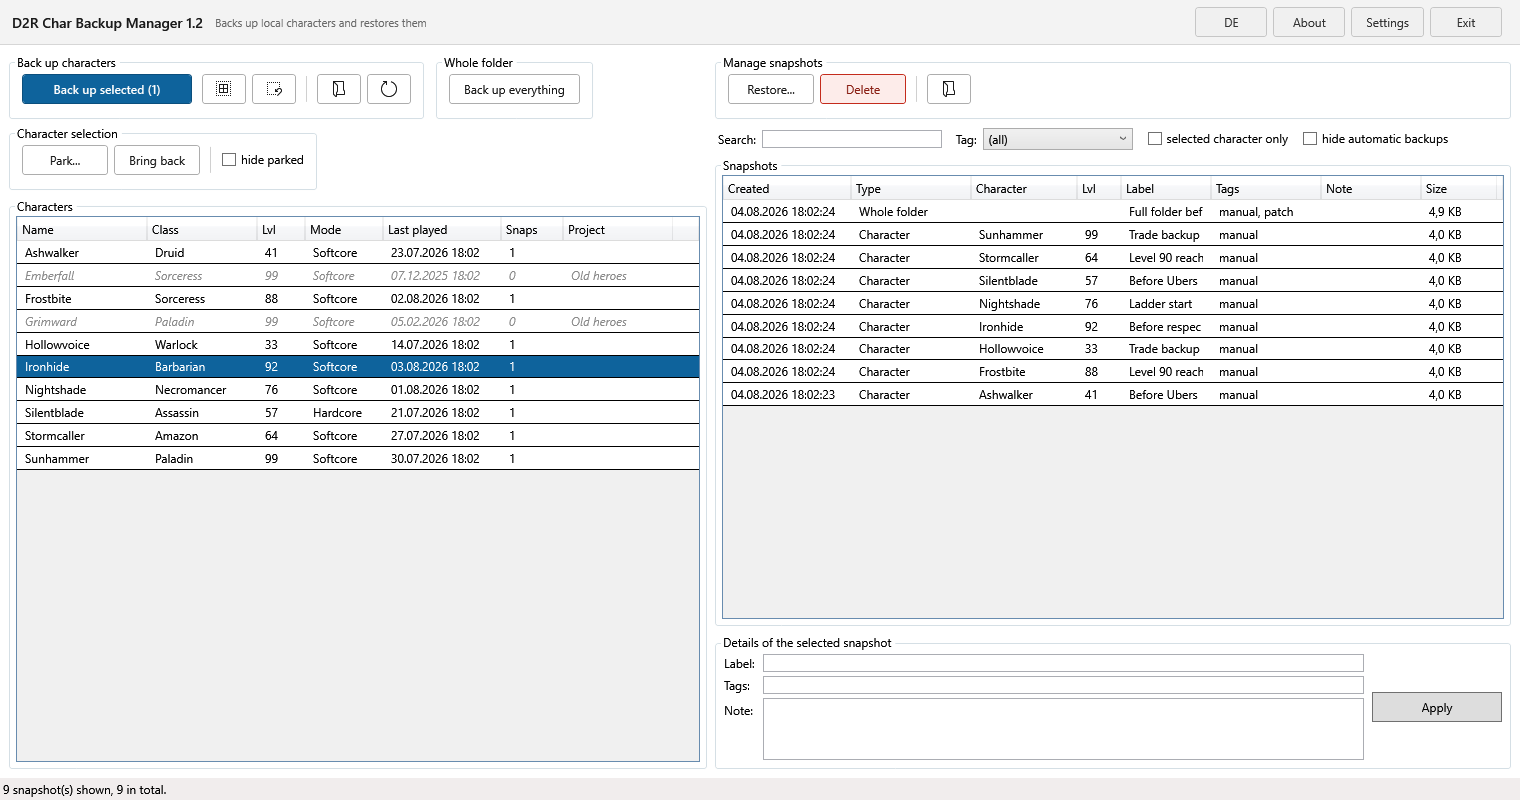
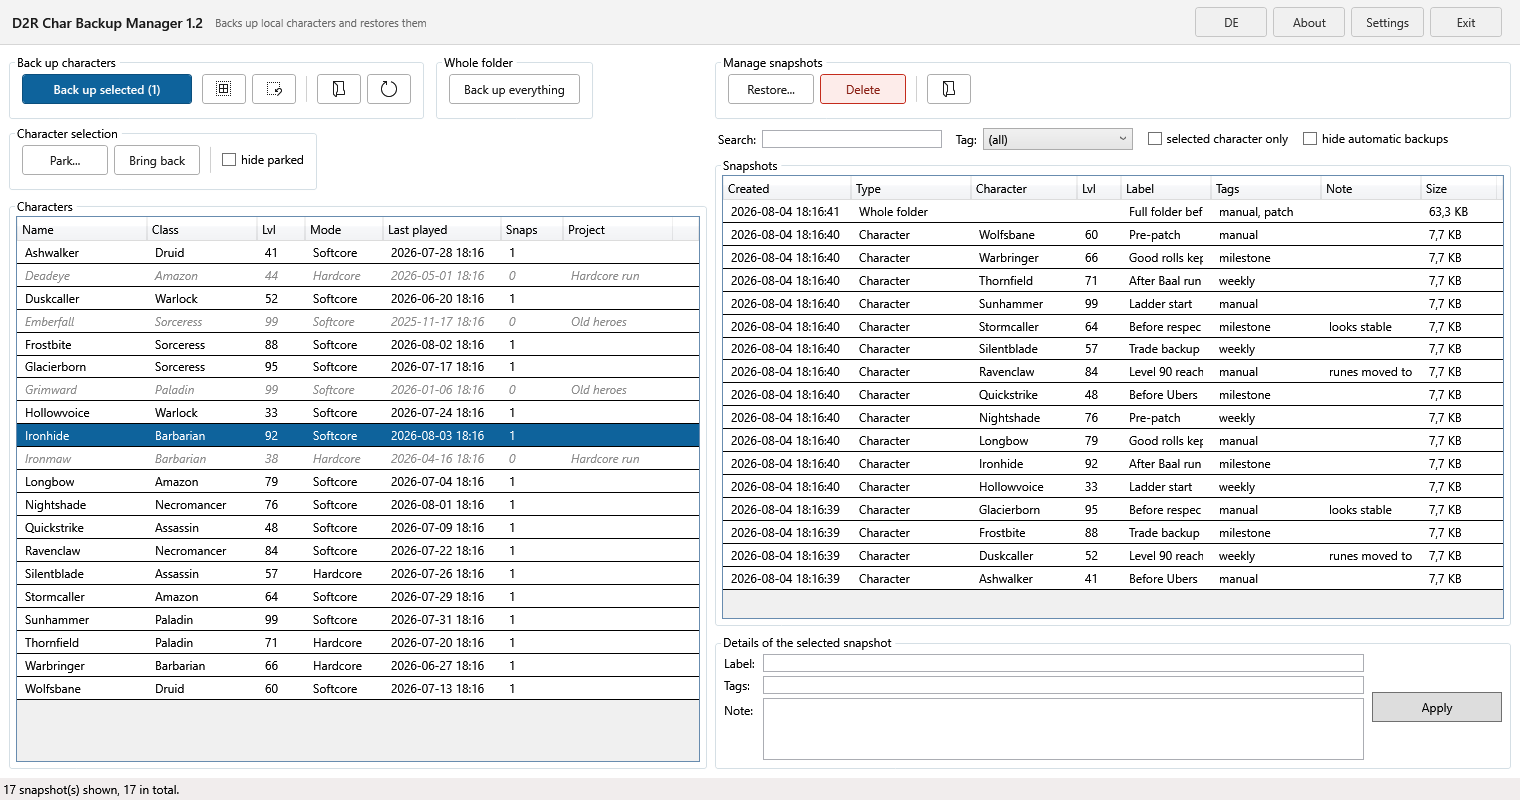
Nicer screenshots, dates follow the interface language, translation check
The screenshots looked half empty: ten rows in a list that holds twenty, and a
dialog that was mostly white space. They are regenerated from sixteen invented
characters plus four parked ones, so both lists are actually full, and the
lonely dialog is replaced by a crop of the character list - which is where
parking is visible in the first place.

While looking at them: the English interface still printed German dates.
Get-DateFormat now returns the format per language, ISO for English, and the
seven hard-coded format strings are gone. Sorting never used the formatted
text and is unaffected.

Test-Sandbox.ps1 gained a check that every string reaching the interface has
an entry in $script:TextsEn. Verified by removing one on purpose: the run
fails and names the string. 92 checks now.

diff --git a/README.md b/README.md
@@ -1,4 +1,4 @@
-# D2R Char Backup Manager
+# D2R Char Backup Manager
 
 A desktop tool for backing up, organising and restoring local *Diablo II:
 Resurrected* characters. PowerShell + WPF, no installation, no server, no
@@ -80,11 +80,11 @@ subfolder is invisible to the game. Parking uses exactly that: the character's f
 set is moved to `_Projekte\<project>\` inside the save folder. Nothing is deleted,
 nothing is rewritten.
 
-![Park dialog](screenshots/park-dialog.png)
-
 Parked characters stay visible inside the program — greyed out and italic, with
 their project in the last column — so you never lose track of what you put away.
 Bringing them back is the same move in reverse.
+
+![Parked characters in the list](screenshots/parked-characters.png)
 
 **A backup of every character is taken before parking it, and this cannot be
 switched off.** A backup is a copy; a parked character is the original in a
@@ -117,7 +117,7 @@ different place. Delete the project folder and it is gone.
 powershell.exe -NoProfile -ExecutionPolicy Bypass -Sta -File "Test-Sandbox.ps1"
 ```
 
-89 checks covering header parsing, backing up, restoring, renaming, the folder
+92 checks covering header parsing, backing up, restoring, renaming, the folder
 layout, stash behaviour, safety copies, deleting, parking and bringing back. They
 run against a throwaway sandbox under `%TEMP%` and never touch a real save folder.
 Green under Windows PowerShell 5.1 **and** PowerShell 7.4.

diff --git a/ENTWICKLUNG.md b/ENTWICKLUNG.md
@@ -93,7 +93,7 @@ unangetastet, zu jedem der Pflicht-Snapshot im Backup, `_INFO.txt` geschrieben.
 Bei einem Charakter wanderten auch `.ctlo`/`.keyo` mit — richtig so, das sind seine
 Tastenbelegungen, und `Get-CharacterFiles` greift über den Basisnamen.
 
-`Test-Sandbox.ps1` deckt 89 Prüfungen ab (Header-Parsing, Sichern, Wiederherstellen,
+`Test-Sandbox.ps1` deckt 92 Prüfungen ab (Header-Parsing, Sichern, Wiederherstellen,
 Umbenennen, Ordner-Ablage, `_INFO.txt`, Stash-Verhalten, Sicherheitskopie, Löschen,
 Index-Neuladen, Parken, Zurückholen, Projektnamen, Namenskollisionen) und läuft grün
 unter Windows PowerShell 5.1 **und** PowerShell 7.4.
@@ -135,7 +135,7 @@ Sonst wartet das Skript auf einen Klick.
 | `ENTWICKLUNG.md` | diese Datei, nur für die Pflege |
 | `CHANGELOG.md` | Änderungen je Version, englisch |
 | `screenshots\` | Bilder fürs README, aus **erfundenen** Charakteren erzeugt |
-| `Test-Sandbox.ps1` | 89 Prüfungen gegen eine Wegwerf-Sandbox |
+| `Test-Sandbox.ps1` | 92 Prüfungen gegen eine Wegwerf-Sandbox |
 | `_versionen\<Version>\` | Quellstand je Version zum schnellen Zurückgehen |
 | `Build-Deploy.ps1` | baut `_deploy\D2R-Char-Backup-Manager-<Version>.zip` |
 | `Render-Ansicht.ps1` | Fenster als PNG rendern |

diff --git a/CHANGELOG.md b/CHANGELOG.md
@@ -20,6 +20,12 @@ in the window title and on the right of the status bar.
 - `LICENSE` (MIT) is now part of the distributed package.
 - Column widths of the snapshot list trimmed — the *Size* column used to sit
   outside the visible area.
+- **Dates now follow the interface language.** German keeps `04.08.2026`, English
+  gets `2026-08-04` — ISO rather than `08/04/2026`, because the American and
+  British orders swap day and month and you cannot tell them apart by looking.
+  Sorting is unaffected: it never used the formatted text.
+- The test suite checks that every visible string has an English counterpart, so a
+  forgotten translation fails a test run instead of surfacing in the program.
 
 ## 1.1 — 2026-08-04
 
